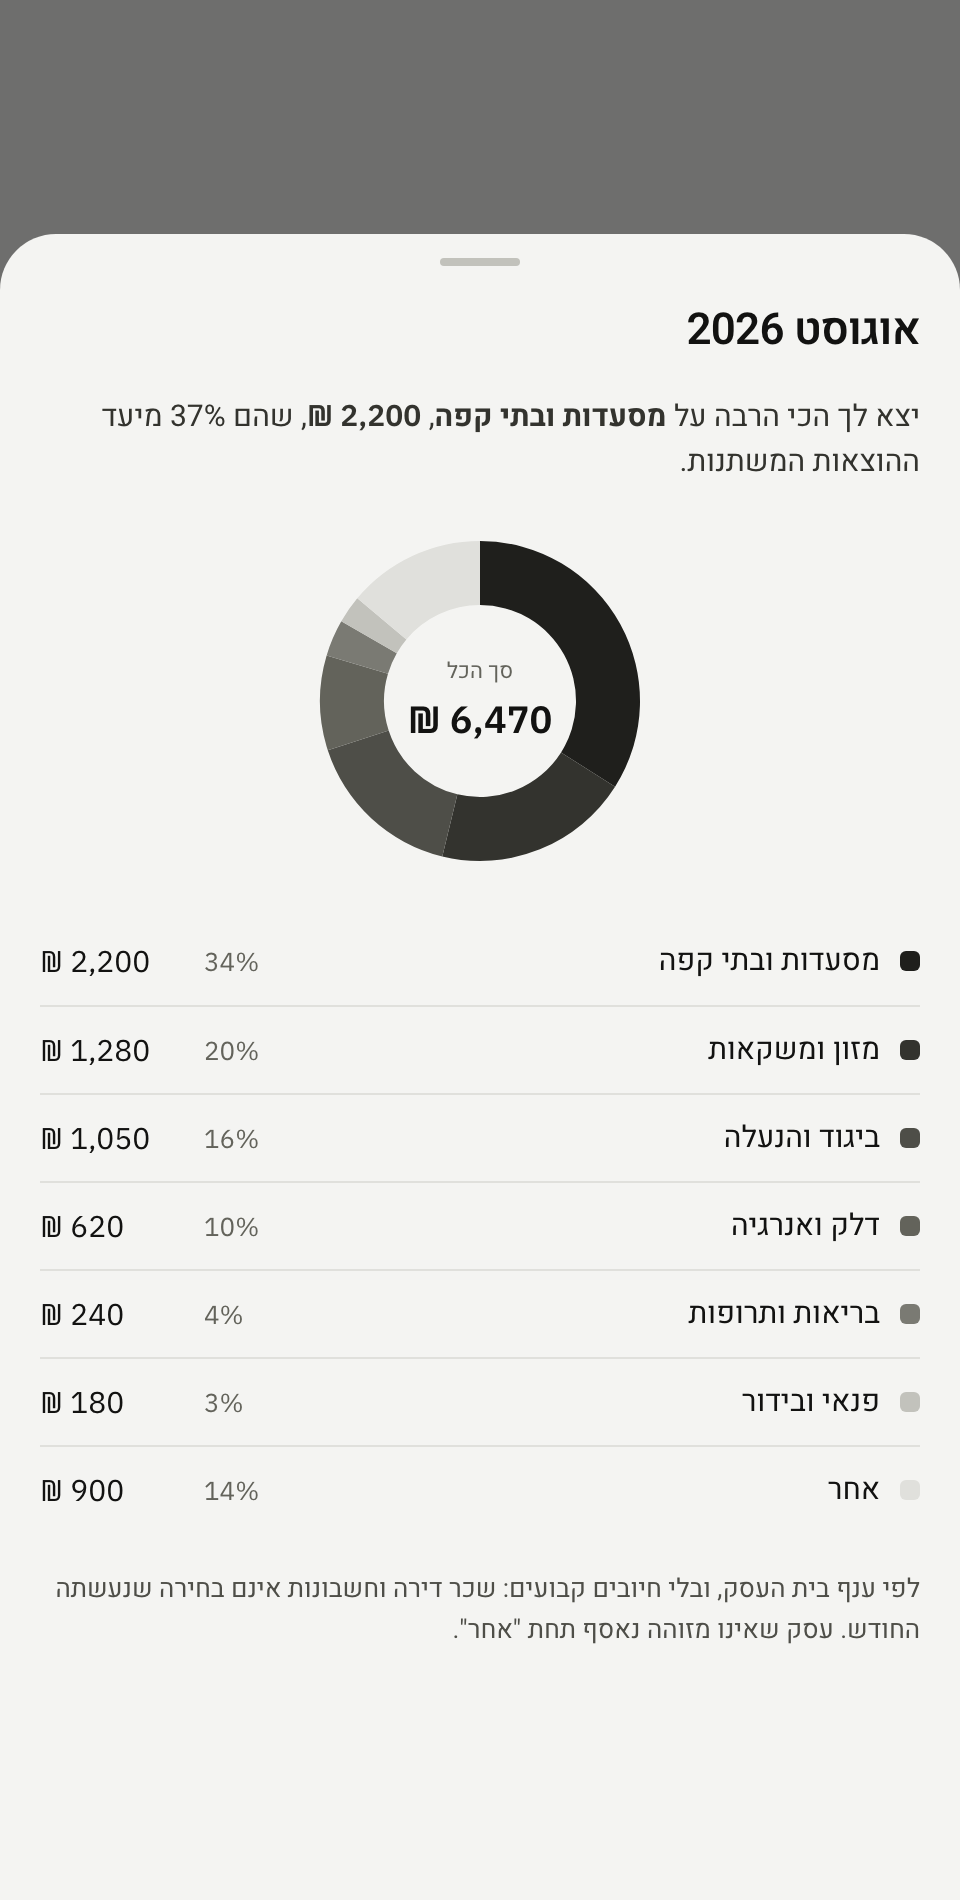
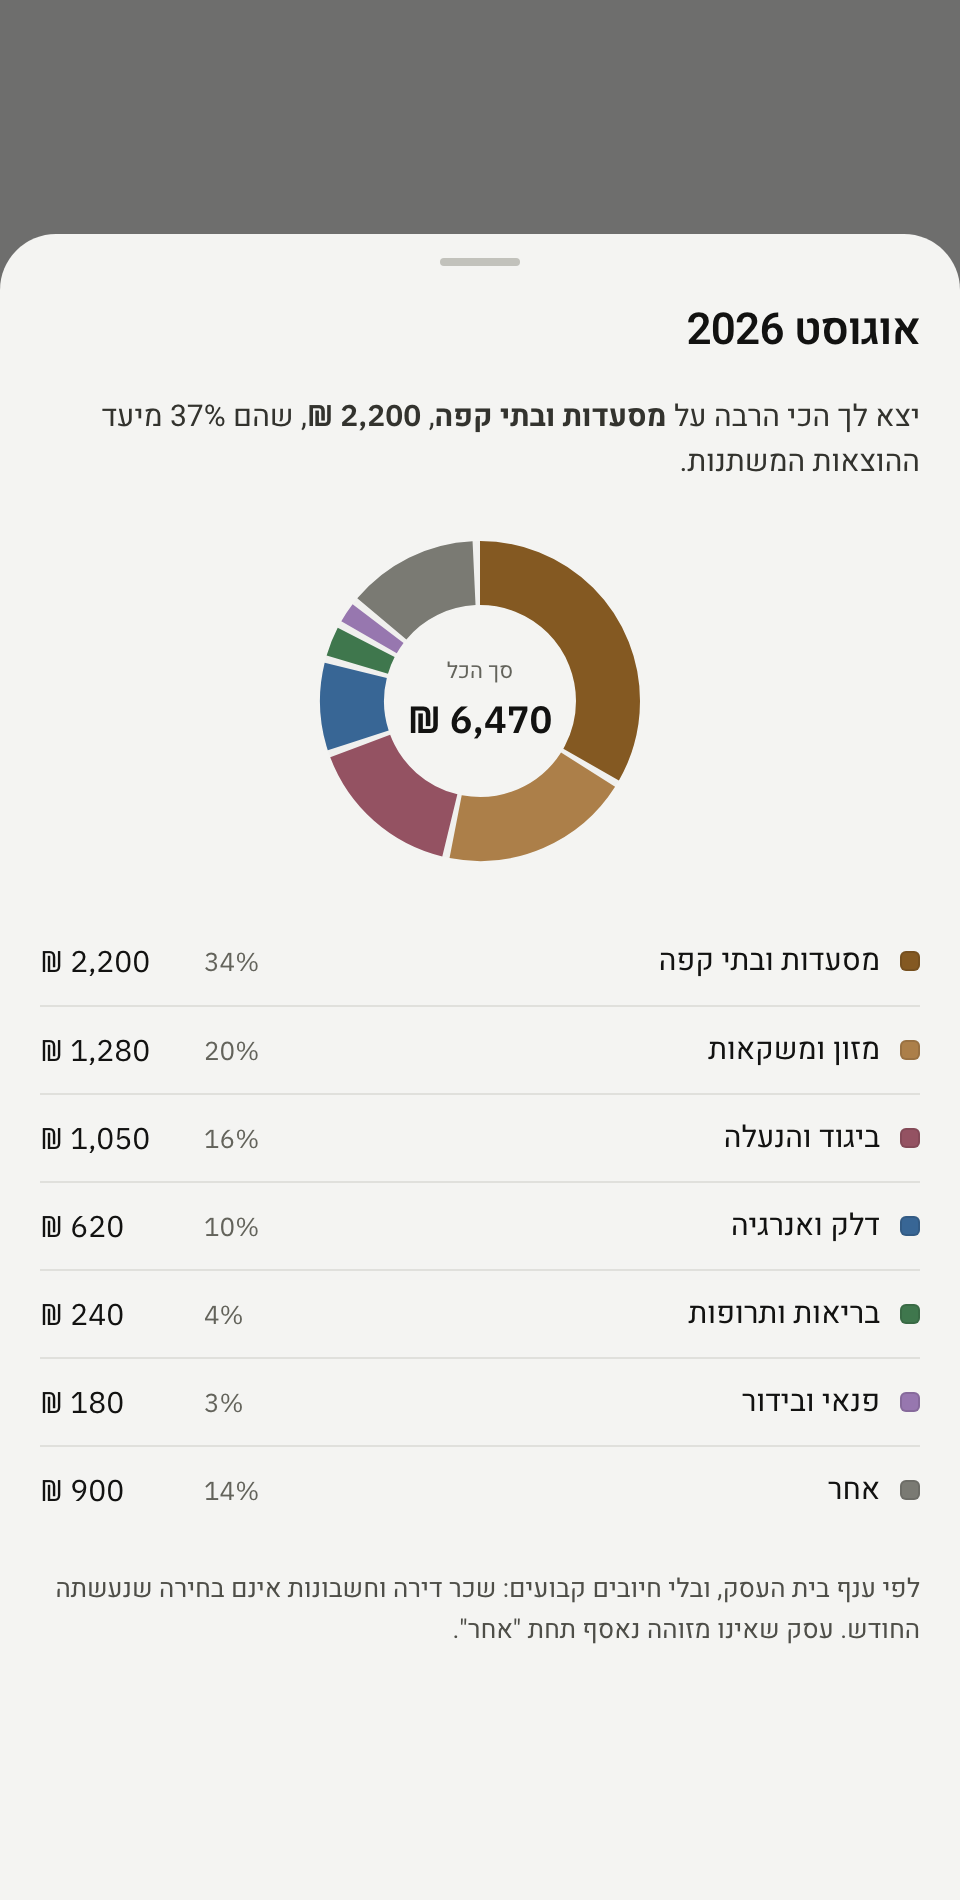
Colour the breakdown ring, and let it fill
Colour by family rather than one hue per sector. Eleven hues at one
lightness cannot be told apart by eye, and under colour blindness they
collapse, so there are five families, one hue each, with the sectors
inside a family separated by lightness. Eating out reading as close to
the supermarket is the point, not a loss. The colour is fixed per
sector and never derived from its rank, so a sector looks the same in
every month and two months can be compared. Anything unrecognised
stays neutral.

The ring is now drawn as strokes instead of wedges, which makes the
fill one animation of dash length: each slice starts where the one
before it ended, so it reads as a single clockwise sweep rather than
eleven animations at once. Linear timing, because an eased curve
inside each slice makes the sweep stutter. A faint track sits under it
so the space is not empty while it fills, and the whole thing is
dropped for prefers-reduced-motion.

diff --git a/src/components/MonthBreakdown.jsx b/src/components/MonthBreakdown.jsx
@@ -1,58 +1,49 @@
 import { useMemo } from 'react'
 import Sheet from './Sheet'
 import { monthLabel, shekels } from '../lib/format'
-import { OTHER, headlineSector, monthBreakdown } from '../lib/breakdown'
+import { OTHER, headlineSector, monthBreakdown, sectorColor } from '../lib/breakdown'
 
 const SIZE = 180
-const RADIUS = 80
-const HOLE = 48
+const MID = SIZE / 2
+/** רדיוס האמצע של הטבעת, והעובי שסביבו */
+const RING = 64
+const WIDTH = 32
+const CIRC = 2 * Math.PI * RING
+/** רווח בין פלחים, במידות ה-viewBox, כדי שגבול יהיה גבול ולא גוון */
+const GAP = 3
+/** כמה זמן לוקח לסיבוב המלא להתמלא */
+const SWEEP = 700
 
 /**
- * נקודה על המעגל. מתחיל בשתים עשרה ונע עם כיוון השעון, שזו הקריאה
- * המוסכמת של עוגה בכל שפה, כולל מימין לשמאל.
+ * הטבעת מצוירת בקווים ולא בגזרות.
+ *
+ * קו עם stroke-dasharray הוא גזרה שאפשר להאריך, ולכן המילוי הוא
+ * אנימציה אחת של אורך הקו במקום צורה שמצוירת מחדש בכל פריים.
+ * הפלח מסובב למקומו, ומתחיל בשתים עשרה ונע עם כיוון השעון, שזו
+ * הקריאה המוסכמת של עוגה בכל שפה, כולל מימין לשמאל.
  */
-const point = (fraction, radius) => {
-  const angle = fraction * 2 * Math.PI - Math.PI / 2
-  return [SIZE / 2 + radius * Math.cos(angle), SIZE / 2 + radius * Math.sin(angle)]
-}
-
-const arc = (from, to) => {
-  // פלח יחיד הוא טבעת שלמה, ו-arc מנקודה לעצמה אינו מצייר דבר
-  if (to - from >= 0.9999) {
-    return `M ${SIZE / 2} ${SIZE / 2 - RADIUS} A ${RADIUS} ${RADIUS} 0 1 1 ${SIZE / 2 - 0.01} ${SIZE / 2 - RADIUS}`
-      + ` L ${SIZE / 2 - 0.01} ${SIZE / 2 - HOLE} A ${HOLE} ${HOLE} 0 1 0 ${SIZE / 2} ${SIZE / 2 - HOLE} Z`
-  }
-  const big = to - from > 0.5 ? 1 : 0
-  const [ox, oy] = point(from, RADIUS)
-  const [ex, ey] = point(to, RADIUS)
-  const [ix, iy] = point(to, HOLE)
-  const [sx, sy] = point(from, HOLE)
-  return `M ${ox} ${oy} A ${RADIUS} ${RADIUS} 0 ${big} 1 ${ex} ${ey}`
-    + ` L ${ix} ${iy} A ${HOLE} ${HOLE} 0 ${big} 0 ${sx} ${sy} Z`
-}
-
-const shade = (slice, index) => (slice.sector === OTHER
-  ? 'var(--color-neutral-300)'
-  : `var(--color-neutral-${Math.max(400, 900 - index * 100)})`)
-
-/** הופך את הפלחים לגזרות רצופות, כל אחת ממקום סיומה של קודמתה */
-const ring = (slices) => slices.reduce((built, slice, index) => {
+const ring = (slices) => slices.reduce((built, slice) => {
   const from = built.length ? built[built.length - 1].to : 0
   const to = from + slice.share
-  built.push({ ...slice, to, d: arc(from, to), fill: shade(slice, index) })
+  const full = slice.share * CIRC
+  // פלח יחיד הוא טבעת שלמה ואין בה מה להפריד
+  const len = slices.length > 1 ? Math.max(full - GAP, Math.min(full, 1)) : full
+  built.push({
+    ...slice,
+    to,
+    len,
+    turn: from * 360,
+    fill: sectorColor(slice.sector),
+  })
   return built
 }, [])
 
 /**
  * על מה יצא הכסף בחודש שנבחר.
  *
- * הפלחים צבועים בסולם הנייטרלי מהכהה לבהיר לפי הגודל, ולא בצבע
- * לכל ענף. צבע במערכת הזו שמור לקטגוריה ולאקסנט, ואחד עשר גוונים
- * חדשים היו הופכים את הטבעת לקישוט. הדירוג הוא המידע, והסולם
- * מקודד אותו. בכהה הסולם מתהפך, ולכן הגדול נשאר בעל הניגוד הגבוה.
- *
- * והמספרים נקראים מהרשימה שמתחת ולא מהטבעת: אי אפשר להשוות שטחי
- * גזרה בעין, ולכן לכל שורה יש סכום ואחוז.
+ * המספרים נקראים מהרשימה שמתחת ולא מהטבעת: אי אפשר להשוות שטחי
+ * גזרה בעין, ולכן לכל שורה יש שם, סכום ואחוז. הצבע מקבץ ענפים
+ * קרובים למשפחה אחת, והוא תוספת לזהות ולא הזהות עצמה.
  */
 export default function MonthBreakdown({ month, entries, baseAmount = 0, onClose }) {
   const { slices, total } = useMemo(() => monthBreakdown(entries), [entries])
@@ -85,11 +76,40 @@ export default function MonthBreakdown({ month, entries, baseAmount = 0, onClose
 
             <div className="donut">
               <svg viewBox={`0 0 ${SIZE} ${SIZE}`} role="img" aria-label={label}>
+                {/* מסילה דהויה מתחת, כדי שבזמן המילוי יהיה מה
+                    להתמלא ולא חור בעמוד */}
+                <circle
+                  cx={MID}
+                  cy={MID}
+                  r={RING}
+                  fill="none"
+                  stroke="var(--color-neutral-200)"
+                  strokeWidth={WIDTH}
+                />
+
+                {/* הטבעת מתמלאת בסיבוב אחד, וכל פלח מתחיל כשקודמו
+                    נגמר. המשך של תנועה אחת, לא אחת לכל פלח */}
                 {arcs.map((slice) => (
-                  <path key={slice.sector} d={slice.d} fill={slice.fill} />
+                  <circle
+                    key={slice.sector}
+                    className="arc"
+                    cx={MID}
+                    cy={MID}
+                    r={RING}
+                    fill="none"
+                    stroke={slice.fill}
+                    strokeWidth={WIDTH}
+                    strokeDasharray={`${slice.len} ${CIRC}`}
+                    transform={`rotate(${slice.turn - 90} ${MID} ${MID})`}
+                    style={{
+                      '--len': slice.len,
+                      '--delay': `${Math.round((slice.turn / 360) * SWEEP)}ms`,
+                      '--dur': `${Math.max(90, Math.round(slice.share * SWEEP))}ms`,
+                    }}
+                  />
                 ))}
               </svg>
-              <div className="donut-mid">
+              <div className="donut-mid" style={{ '--delay': `${SWEEP - 120}ms` }}>
                 <span className="cap">סך הכל</span>
                 <span className="num">{shekels(total)}</span>
               </div>

diff --git a/src/App.css b/src/App.css
@@ -2851,6 +2851,39 @@ input[type='file'] {
 
 .donut svg { display: block; width: 100%; height: 100%; }
 
+/* הטבעת מתמלאת במקום להופיע.
+
+   כל פלח הוא קו שאורכו הגלוי גדל מאפס לאורכו המלא, וההשהיה שלו
+   היא המקום שבו הוא מתחיל על המעגל. התוצאה היא יד אחת שמקיפה את
+   השעון, ולא אחת עשרה אנימציות במקביל. התזמון לינארי בכוונה: עקומה
+   הייתה מאיצה ומאטה בתוך כל פלח, והסיבוב היה מקרטע.
+
+   stroke-dashoffset הוא מאפיין שמונפש על ה-compositor ואינו גורם
+   לפריסה מחדש, ולכן זה חלק גם בטלפון ישן. */
+@keyframes donut-sweep {
+  from { stroke-dashoffset: var(--len); }
+  to { stroke-dashoffset: 0; }
+}
+
+@keyframes donut-mid-in {
+  from { opacity: 0; }
+  to { opacity: 1; }
+}
+
+.donut .arc {
+  stroke-dashoffset: 0;
+  animation: donut-sweep var(--dur) linear var(--delay) backwards;
+}
+
+/* הסכום נכנס כשהטבעת כבר כמעט סגורה, אחרת הוא נקרא לפני שיש לו שלם */
+.donut-mid { animation: donut-mid-in 240ms ease-out var(--delay) backwards; }
+
+/* מי שביקש פחות תנועה מקבל את התמונה המוגמרת, לא גרסה מהירה שלה */
+@media (prefers-reduced-motion: reduce) {
+  .donut .arc,
+  .donut-mid { animation: none; }
+}
+
 /* הסכום במרכז: הטבעת מראה חלוקה, והמספר הזה הוא השלם שלה */
 .donut-mid {
   position: absolute;
@@ -2884,11 +2917,14 @@ input[type='file'] {
 
 .breakdown-list li:first-child { border-block-start: 0; }
 
+/* קו שיער סביב הנקודה: הגוונים הבהירים במשפחה כמעט נעלמים על
+   כרטיס לבן, והמסגרת מחזירה להם גבול בלי להכהות אותם */
 .breakdown-list .swatch {
   flex-shrink: 0;
   width: 10px;
   height: 10px;
   border-radius: 3px;
+  box-shadow: inset 0 0 0 1px var(--color-divider);
 }
 
 .breakdown-name {

diff --git a/src/index.css b/src/index.css
@@ -72,6 +72,27 @@
   --cat-fund: #6b53a8;
   --cat-unplanned: #8a6b1f;
 
+  /* צבעי ענף, לפילוח החודש בלבד.
+
+     אחד עשר ענפים אינם אחד עשר גוונים: בעין אנושית, ובוודאי בעיוורון
+     צבעים, אי אפשר להפריד כל כך הרבה גוונים באותה בהירות. לכן יש חמש
+     משפחות, גוון למשפחה, והענפים שבתוכה נבדלים בבהירות. זה גם נכון
+     יותר לקריאה: אוכל בחוץ וסופר אמורים להיראות קרובים.
+
+     הזהות המלאה תמיד ברשימה שמתחת לטבעת, עם שם וסכום, ולכן הצבע
+     משלים מידע ואינו נושא אותו לבדו. */
+  --sec-food-1: #845922;
+  --sec-food-2: #ac7f49;
+  --sec-food-3: #c99b65;
+  --sec-move-1: #386695;
+  --sec-move-2: #5e8dbe;
+  --sec-move-3: #79a9db;
+  --sec-body-1: #945262;
+  --sec-body-2: #ce8797;
+  --sec-life-1: #3f774d;
+  --sec-life-2: #75ae81;
+  --sec-play-1: #9777af;
+
   /* ========== עומק ========== */
 
   /* קו שיער ולא צל. ההפרדה היא גבול מצויר, והצל נשאר למה שבאמת
@@ -180,6 +201,19 @@
     --cat-leisure: #e58fa0;
     --cat-fund: #b49bf0;
     --cat-unplanned: #d9b85c;
+
+    /* אותן חמש משפחות, מוארות מעל הרקע הכהה */
+    --sec-food-1: #ac8455;
+    --sec-food-2: #d2a979;
+    --sec-food-3: #f3c898;
+    --sec-move-1: #6690bb;
+    --sec-move-2: #8ab5e3;
+    --sec-move-3: #afd5fe;
+    --sec-body-1: #bc7e8b;
+    --sec-body-2: #f9b5c3;
+    --sec-life-1: #6ea078;
+    --sec-life-2: #a6daaf;
+    --sec-play-1: #c1a3d8;
 
     /* על רקע כהה צל אינו נראה, ולכן ההפרדה היא קו בלבד, והמרחף
        מקבל צל שחור עמוק שמחשיך את מה שמתחתיו */

diff --git a/tests/breakdown.test.js b/tests/breakdown.test.js
@@ -1,5 +1,6 @@
 import { describe, expect, it } from 'vitest'
-import { OTHER, chosenSpending, headlineSector, monthBreakdown } from '../src/lib/breakdown'
+import { OTHER, chosenSpending, headlineSector, monthBreakdown, sectorColor } from '../src/lib/breakdown'
+import { SECTOR_RULES } from '../src/lib/merchants'
 
 const entry = (over = {}) => ({
   category: 'leisure', name: 'משהו', actualAmount: 100, ...over,
@@ -100,5 +101,27 @@ describe('headlineSector', () => {
 
   it('שותק בלי בסיס, כי אין יעד להשוות אליו', () => {
     expect(headlineSector([entry({ name: 'מסעדות', actualAmount: 5000 })], 0)).toBeNull()
+  })
+})
+
+describe('sectorColor', () => {
+  it('נותן צבע לכל ענף שהמערכת מזהה', () => {
+    for (const rule of SECTOR_RULES) {
+      expect(sectorColor(rule.sector), rule.sector).toMatch(/^var\(--sec-/)
+    }
+  })
+
+  it('לא נותן לשני ענפים באותה משפחה את אותו צבע', () => {
+    const used = SECTOR_RULES.map((rule) => sectorColor(rule.sector))
+    expect(new Set(used).size).toBe(used.length)
+  })
+
+  it('"אחר" וענף לא מוכר נופלים לנייטרלי', () => {
+    expect(sectorColor(OTHER)).toBe('var(--color-neutral-500)')
+    expect(sectorColor('ענף שלא קיים')).toBe('var(--color-neutral-500)')
+  })
+
+  it('אותו ענף מקבל אותו צבע ללא תלות בדירוג', () => {
+    expect(sectorColor('מסעדות ובתי קפה')).toBe(sectorColor('מסעדות ובתי קפה'))
   })
 })

diff --git a/src/lib/breakdown.js b/src/lib/breakdown.js
@@ -84,3 +84,33 @@ export function headlineSector(entries = [], baseAmount = 0) {
 
   return { sector, amount, share, target }
 }
+
+/**
+ * הצבע של ענף, כטוקן.
+ *
+ * חמש משפחות, גוון למשפחה, ובתוך המשפחה הבדל בבהירות. ההחלטה
+ * מוסברת ב-index.css ליד הטוקנים: אחד עשר גוונים נפרדים אינם
+ * ניתנים להפרדה בעין, וחמש משפחות גם אומרות משהו נכון על הכסף.
+ *
+ * הצבע קבוע לענף ולא נגזר מהדירוג. אחרת אותו ענף היה מחליף צבע
+ * מחודש לחודש, וההשוואה בין שני חודשים הייתה נשברת.
+ */
+const SECTOR_COLORS = {
+  'מסעדות ובתי קפה': 'food-1',
+  'מזון ומשקאות': 'food-2',
+  'מזון מהיר': 'food-3',
+  'דלק ואנרגיה': 'move-1',
+  תחבורה: 'move-2',
+  חניה: 'move-3',
+  'ביגוד והנעלה': 'body-1',
+  'טיפוח ויופי': 'body-2',
+  'בריאות ותרופות': 'life-1',
+  'ריהוט ולבית': 'life-2',
+  'פנאי ובידור': 'play-1',
+}
+
+export function sectorColor(sector) {
+  const token = SECTOR_COLORS[sector]
+  // "אחר" וכל ענף שיתווסף בלי צבע נופלים לנייטרלי, שלא מתחזה לענף
+  return token ? `var(--sec-${token})` : 'var(--color-neutral-500)'
+}

diff --git a/DESIGN.md b/DESIGN.md
@@ -21,6 +21,17 @@ colors:
   cat-leisure: "#a8475a"
   cat-fund: "#6b53a8"
   cat-unplanned: "#8a6b1f"
+  sec-food-1: "#845922"
+  sec-food-2: "#ac7f49"
+  sec-food-3: "#c99b65"
+  sec-move-1: "#386695"
+  sec-move-2: "#5e8dbe"
+  sec-move-3: "#79a9db"
+  sec-body-1: "#945262"
+  sec-body-2: "#ce8797"
+  sec-life-1: "#3f774d"
+  sec-life-2: "#75ae81"
+  sec-play-1: "#9777af"
   dark-page: "#111214"
   dark-paper: "#1b1c1e"
   dark-ink: "#f3f6f8"
@@ -205,6 +216,22 @@ only as a dot: income `#277754`, fixed `#5a6a86`, variable `#a8475a`, deposits
 Fixed charges are deliberately the least saturated of the five. They are half the
 budget and the thing nobody chooses; the hues go to the money you can still
 influence.
+
+### Sector
+A second, separate set, used on one surface only: the breakdown of a past month.
+Eleven sectors are not eleven hues, because eleven colours at one lightness
+cannot be told apart by eye, and under colour blindness they collapse entirely.
+So there are **five families**, one hue each, and the sectors inside a family
+differ in lightness: food `#845922 · #ac7f49 · #c99b65`, transport
+`#386695 · #5e8dbe · #79a9db`, clothing and grooming `#945262 · #ce8797`,
+health and home `#3f774d · #75ae81`, leisure `#9777af`. Anything unrecognised is
+`--color-neutral-500`, a grey that does not pretend to be a sector.
+
+Grouping is also the truer reading: eating out and the supermarket should look
+related. The colour is fixed per sector and never derived from its rank, so the
+same sector is the same colour in every month. Identity always sits in the list
+under the ring, with a name and a figure, so colour supplements it and never
+carries it alone.
 
 ### Named Rules
 **The Three Places Rule.** A category colour appears in exactly three places: the

diff --git a/README.md b/README.md
@@ -228,6 +228,14 @@ merchant name at read time, through `merchantSector`, so the breakdown works on
 every month already recorded and nothing had to be stored for it. A merchant the
 app does not recognise falls under "אחר", which always sorts last.
 
+The ring is coloured by **family**, not one hue per sector: eleven hues at one
+lightness cannot be told apart, so there are five families, one hue each, and
+the sectors inside a family differ in lightness. Eating out and the supermarket
+reading as related is the point. A sector's colour is fixed and never derived
+from its rank, so the same sector looks the same in every month. It fills in one
+clockwise sweep when the sheet opens, and that sweep is skipped entirely for
+anyone who asked for less motion.
+
 Above the ring, one sentence names the largest sector, and only when it passed
 **a third of the variable target**. The threshold is relative to the plan rather
 than to the other sectors: in a quiet month the largest sector is still the
